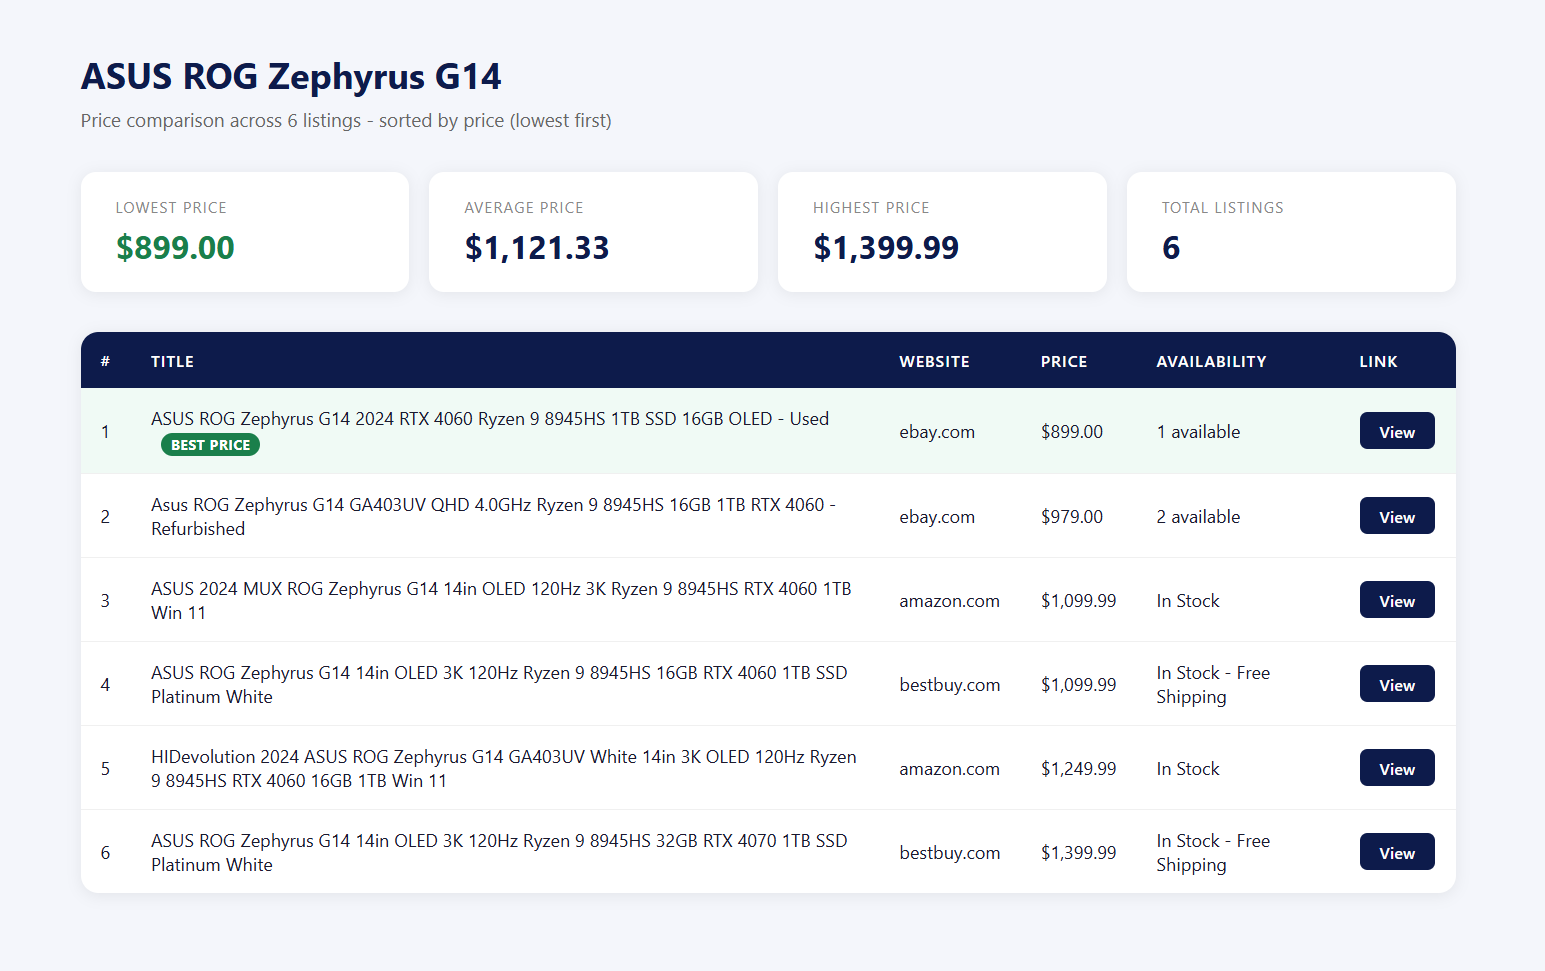
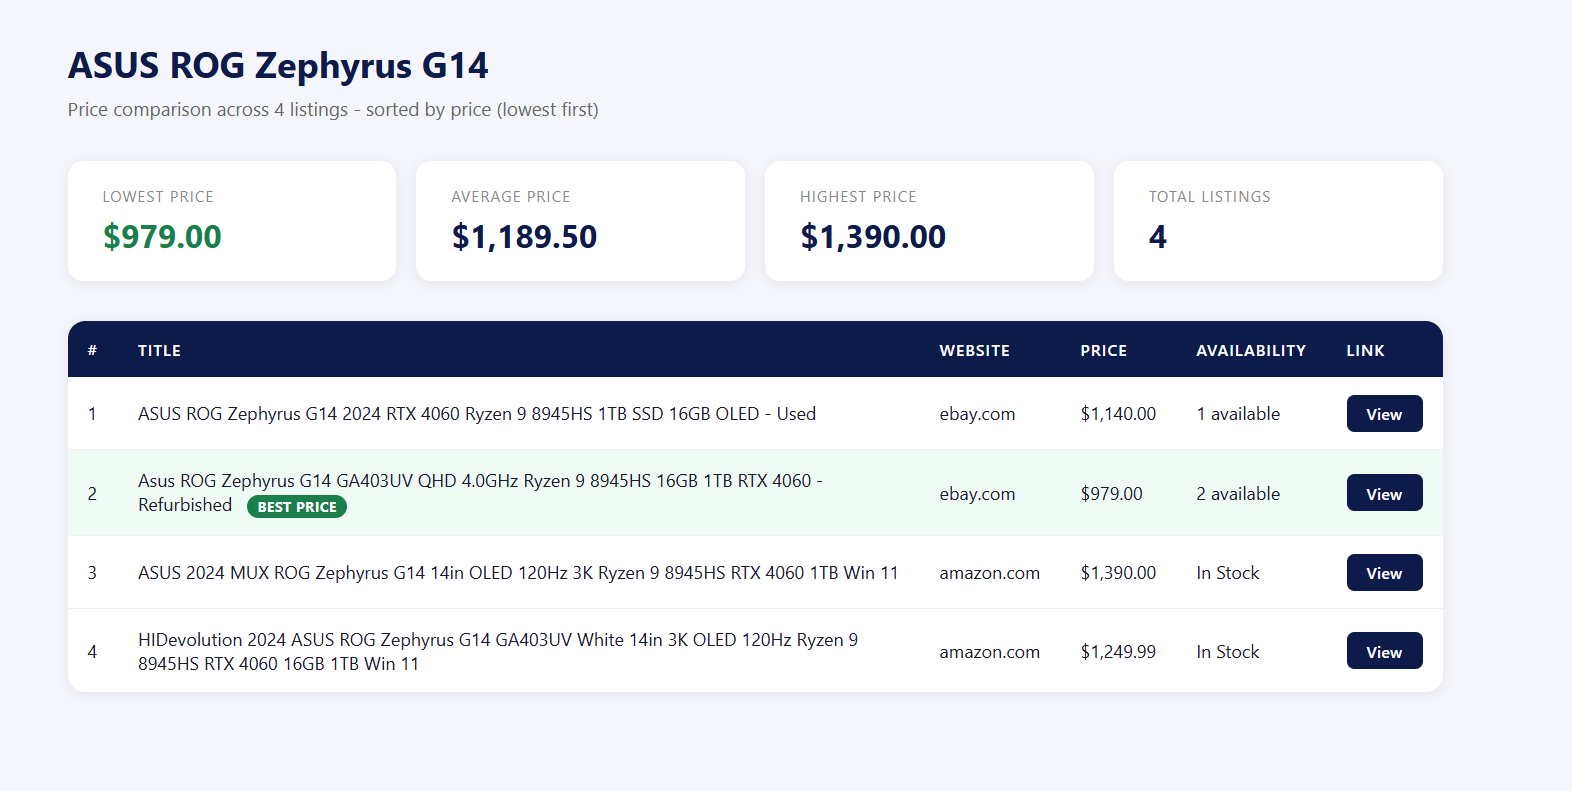
AI Agent Search

diff --git a/1_AI Agent CrewAI/README.MD b/1_AI Agent CrewAI/README.MD
@@ -10,7 +10,7 @@ A multi-agent pipeline that searches multiple e-commerce websites for a product,
 
 ## Output
 
-![Price Comparison Table](example/price_comparison.html)
+![Price Comparison Table](examples/preview.png)
 
 An HTML report with:
 - Summary cards (lowest, average, highest price)
@@ -58,3 +58,10 @@ See the [`examples/`](examples/) folder for sample results searching for an ASUS
 Not every step needs to be an LLM agent.
 
 The scraping agent was burning thousands of tokens per retry. Replacing it with a plain Python function made the system faster, cheaper, and more reliable.
+
+## Note on Pricing
+
+> ⚠️ Example data is for demonstration only. Prices and listing availability change daily.
+> Run the notebook to get real-time results.
+
+Prices in the examples folder were captured at a specific point in time and may no longer reflect current listings. Some listings may have ended or changed price since the examples were generated.